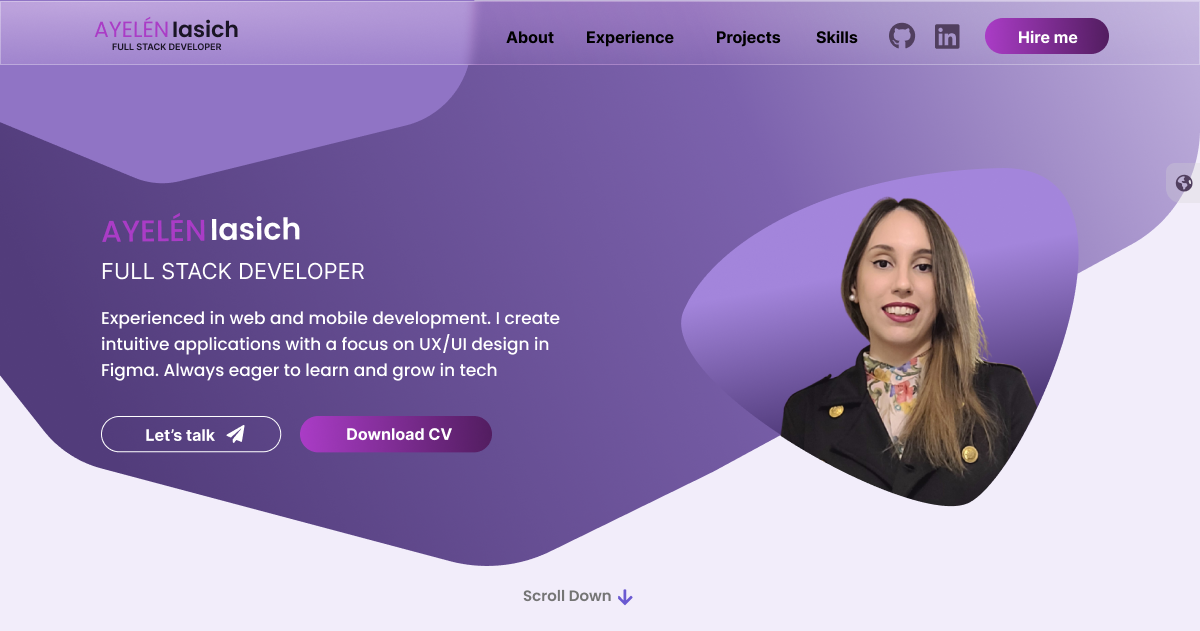
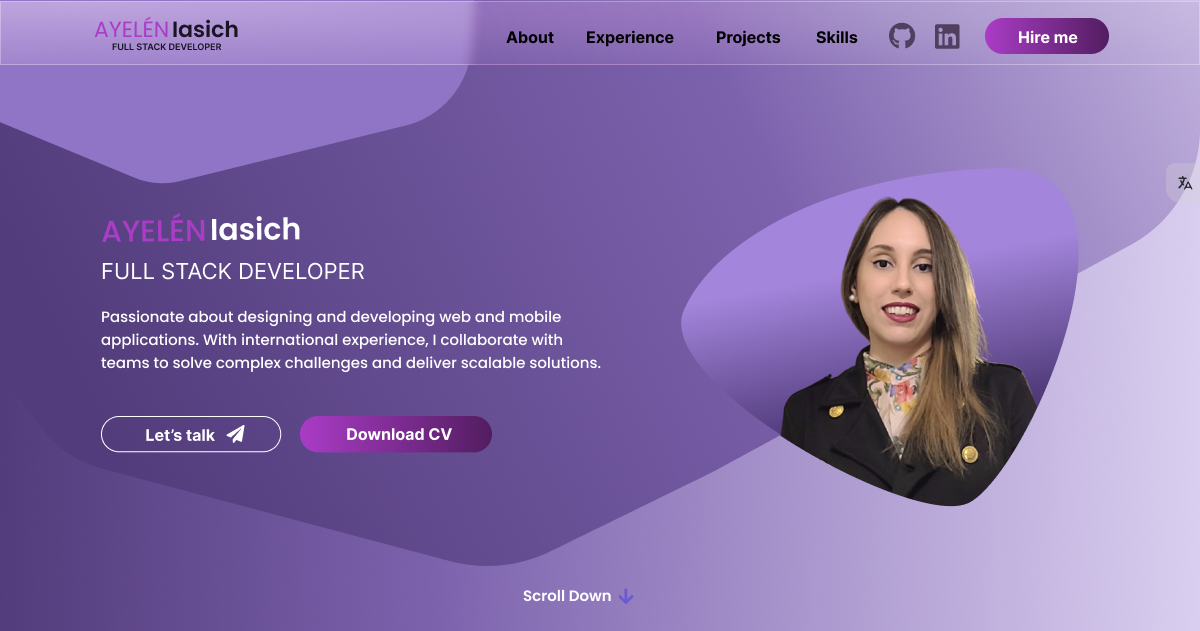
Feat: add new cv link, new certificate and change web preview

Changed region(s): [[0.0, 0.2409, 1.0, 1.0], [0.0925, 0.4818, 0.4933, 0.6022]]

diff --git a/src/Data/certificationData.js b/src/Data/certificationData.js
@@ -27,8 +27,18 @@ import HtmlCssCertificate from "../assets/png/certificate/HtmlCssCertificate.png
 import TsFundamentosCertificate from "../assets/png/certificate/TsFundamentosCertificate.png";
 import FundamentosAngularCertificate from "../assets/png/certificate/FundamentosAngularCertificate.png";
 import ProgramacionBasicaCertificate from "../assets/png/certificate/ProgramacionBasicaCertificate.png";
+import ComposicionPatronesRender from "../assets/png/certificate/ComposicionPatronesRender.png";
 
 export const certificationDataPreview = (t) => [
+  {
+    logo: React,
+    institute: t("PlatziTitle1"),
+    titleEducation: t("ReactComposicionCertificate"),
+    period: t("ReactComposicionPeriod"),
+    isShowCertification: true,
+    certificate: ComposicionPatronesRender,
+    category: "FrontendDevelopment",
+  },
   {
     logo: React,
     institute: t("PlatziTitle1"),
@@ -37,15 +47,6 @@ export const certificationDataPreview = (t) => [
     isShowCertification: true,
     certificate: ReactCertificate,
     category: "FrontendDevelopment",
-  },
-  {
-    logo: PreworkWindows,
-    institute: t("PlatziTitle1"),
-    titleEducation: t("PreworkWinCertificate"),
-    period: t("PreworkWinCertificatePeriod"),
-    isShowCertification: true,
-    certificate: PreWorkWinCertficate,
-    category: "Infrastructure&OS",
   },
   {
     logo: JS,
@@ -81,6 +82,15 @@ export const categoriesCertificates = (t) => [
 ];
 
 const certificationData = (t) => [
+  {
+    logo: React,
+    institute: t("PlatziTitle1"),
+    titleEducation: t("ReactComposicionCertificate"),
+    period: t("ReactComposicionPeriod"),
+    isShowCertification: true,
+    certificate: ComposicionPatronesRender,
+    category: "FrontendDevelopment",
+  },
   {
     logo: React,
     institute: t("PlatziTitle1"),

diff --git a/src/utils/cvUtils.js b/src/utils/cvUtils.js
@@ -1,8 +1,8 @@
 export const handleDownloadCV = (language) => {
   const cvUrl =
     language === "es"
-      ? "https://drive.google.com/file/d/1MRo-jU20nSDkXg1Jjb_sTGIqerBd7I02/view?usp=sharing" // cv spanish
-      : "https://drive.google.com/file/d/1S14nYFpnpenh-hj0xI6Y_rZARgRl5sOu/view?usp=sharing"; // cv english
+      ? "https://drive.google.com/file/d/11yJYIjsGPs3WXwfeJ452mkH-OamJU8lz/view?usp=sharing" // cv spanish
+      : "https://drive.google.com/file/d/13dDcDDjjgPx72LR8WqkQqhBlYtXoTz-V/view?usp=sharing"; // cv english
 
   window.open(cvUrl, "_blank");
 };

diff --git a/src/sections/Home/Home.css b/src/sections/Home/Home.css
@@ -3,14 +3,11 @@
 }
 .home-section {
   position: relative;
-  /* width: 100vw; */
   min-height: 100vh;
   overflow: hidden;
   display: flex;
   justify-content: center;
   align-items: center;
-  /* background-color: var(--light-purple-bg); */
-  /* background-color: rgba(188, 166, 229, 0.2); */
   background: linear-gradient(90deg, #523c7b 0%, #7c62ad 36%, #dcd1f1 100%);
 }
 
